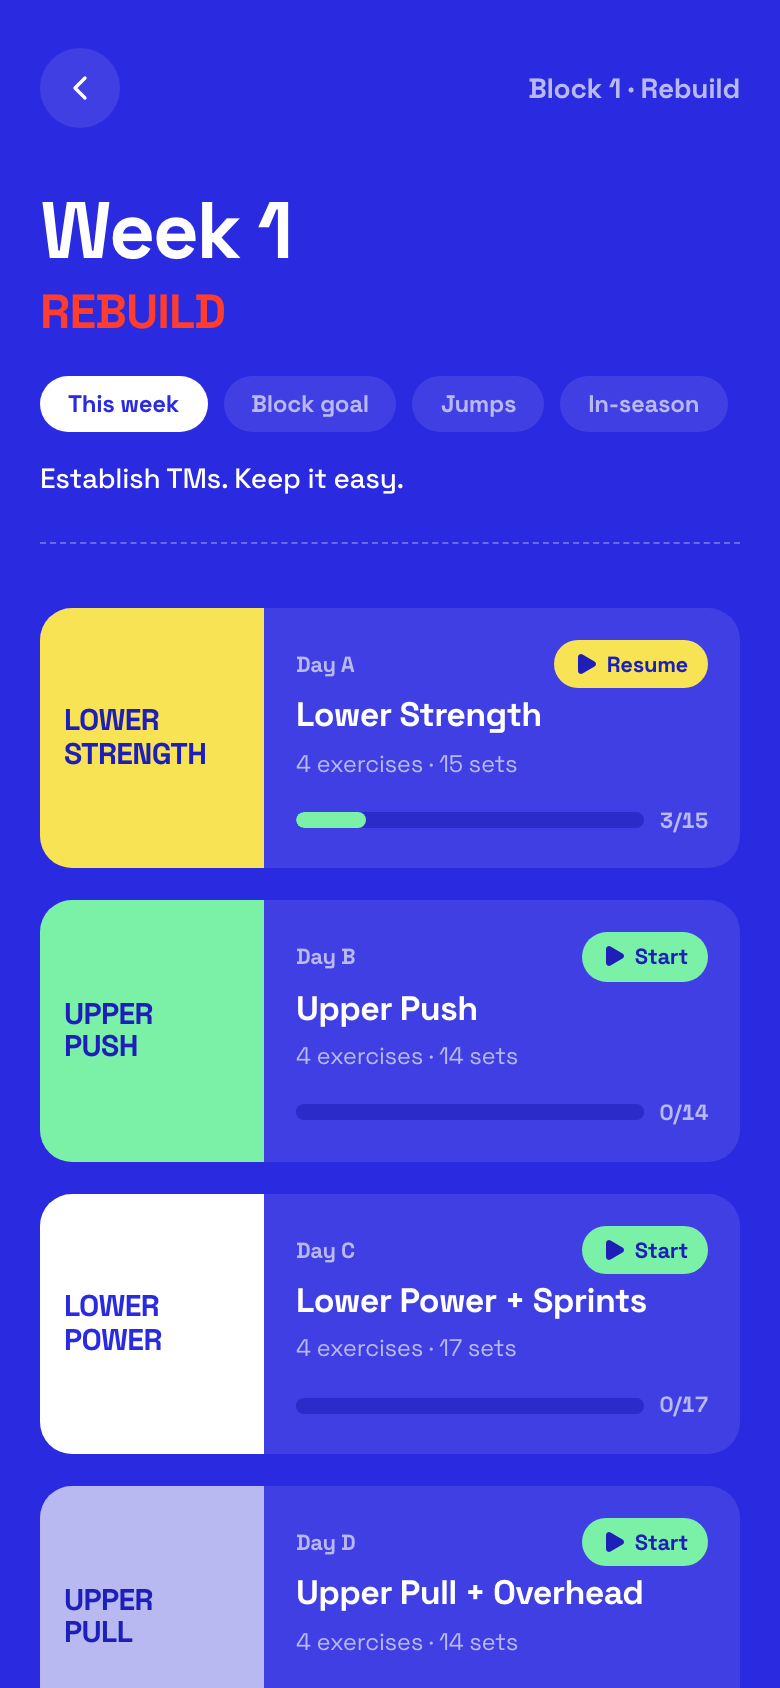
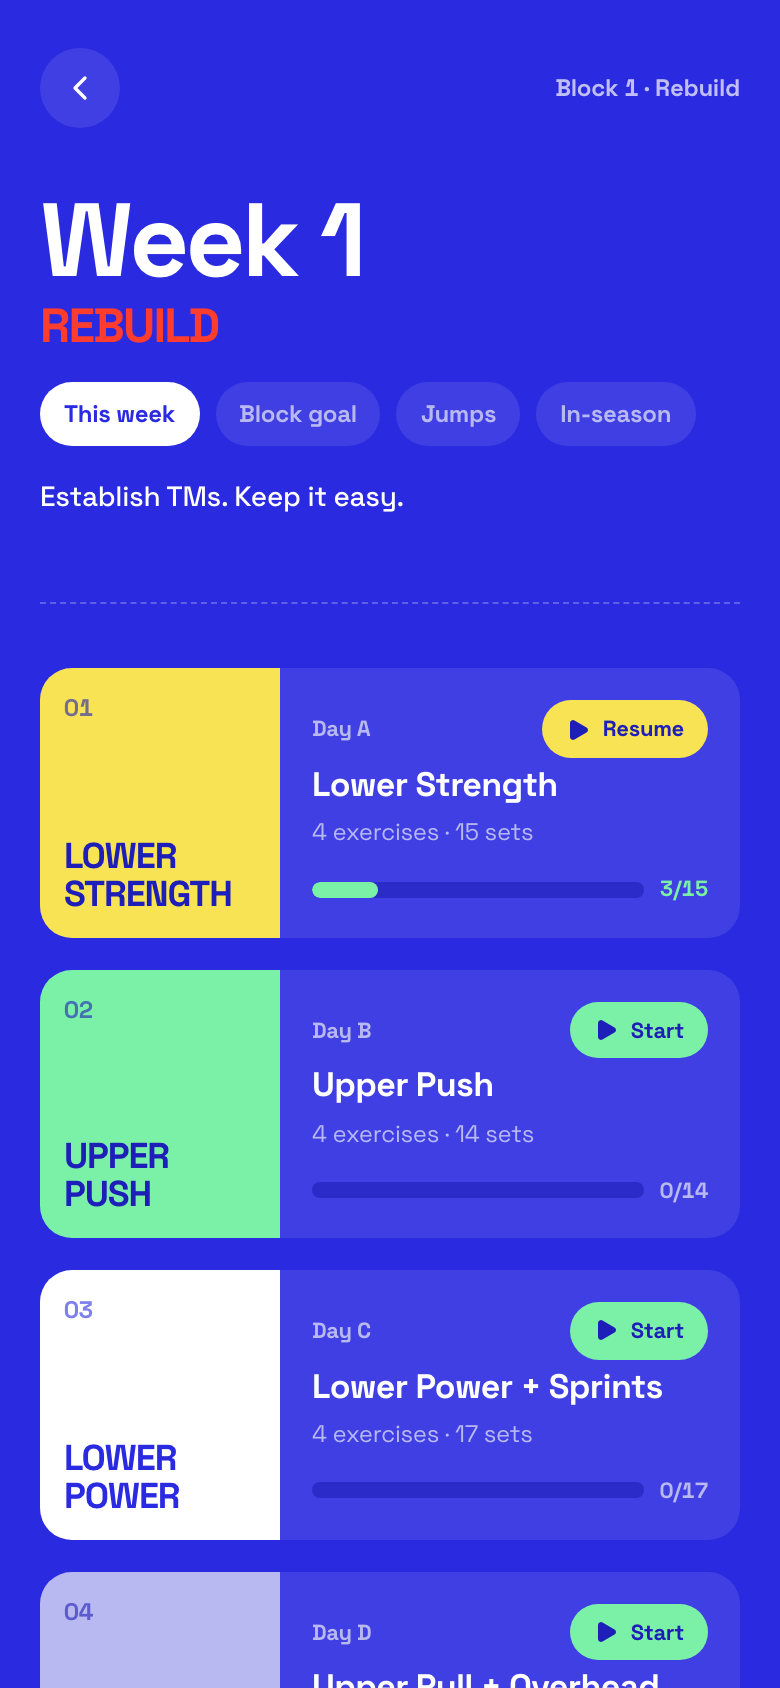
V2: week detail — won blind A/B, all criteria met
V2 week-detail (/week/1) visual refinement, single file touched: src/pages/WeekOverview.tsx. Changes vs pre shot (docs/gauntlet/shots/pre/v2-week-detail.png): (1) Poster day-cards now read as a designed set — panels widened to 7.5rem with a small tabular index numeral (01–04, opacity-60) top-left and a bottom-anchored word stack at 1.125rem/1.05 with -0.03em tracking.

diff --git a/src/pages/WeekOverview.tsx b/src/pages/WeekOverview.tsx
@@ -58,26 +58,26 @@ export default function WeekOverview() {
           >
             <ChevronLeft className="w-5 h-5" />
           </button>
-          <span className="text-sm font-bold text-mist">
+          <span className="text-xs font-bold text-white/70 tabular-nums">
             Block {week.block.charAt(0)} · {blockName}
           </span>
         </div>
 
         {/* Title */}
         <header className="mb-8">
-          <h1 className="text-[2.5rem] leading-none font-bold tracking-[-0.03em] mb-1">
+          <h1 className="text-[3.25rem] leading-[0.95] font-bold tracking-[-0.035em] mb-1.5">
             Week {week.weekNumber}
           </h1>
           <h2
             className={cn(
-              'text-2xl font-bold tracking-[-0.02em] uppercase',
+              'text-2xl leading-none font-bold tracking-[-0.04em] uppercase',
               BLOCK_TEXT_COLOR[blockName]
             )}
           >
             {blockName}
           </h2>
           <WeekInfoTabs week={week} />
-          <div className="border-t border-dashed border-white/30 mt-5" />
+          <div className="border-t border-dashed border-white/25 mt-6" />
         </header>
 
         {/* Day cards */}
@@ -86,10 +86,6 @@ export default function WeekOverview() {
             <DayCard key={day.id} day={day} index={index} completedSets={completedSets} />
           ))}
         </div>
-        <p className="text-center text-[0.6875rem] font-medium text-mist mt-5">
-          Tap a session to start the workout.
-        </p>
-
       </main>
     </div>
   );
@@ -118,7 +114,7 @@ const WeekInfoTabs: React.FC<{ week: (typeof TRAINING_PLAN)[number] }> = ({ week
               setActive(tab.id);
             }}
             className={cn(
-              'px-3.5 py-1.5 rounded-full text-xs font-bold transition-colors',
+              'px-3 py-2 rounded-full text-xs font-bold transition-colors',
               active === tab.id ? 'bg-white text-court' : 'bg-white/10 text-mist hover:bg-white/20'
             )}
           >
@@ -130,7 +126,7 @@ const WeekInfoTabs: React.FC<{ week: (typeof TRAINING_PLAN)[number] }> = ({ week
       <AnimatePresence mode="wait">
         <motion.div
           key={active}
-          className="mt-3 text-sm leading-relaxed"
+          className="mt-3.5 min-h-[2.5rem] text-sm leading-relaxed"
           initial={{ opacity: 0, y: 4 }}
           animate={{ opacity: 1, y: 0 }}
           exit={{ opacity: 0, y: -4 }}
@@ -185,18 +181,23 @@ const DayCard: React.FC<{ day: WorkoutDay; index: number; completedSets: Progres
       {/* Poster panel */}
       <div
         className={cn(
-          'w-28 flex-shrink-0 px-3 py-4 flex flex-col justify-center',
+          'w-[7.5rem] flex-shrink-0 px-3 py-3 flex flex-col justify-between gap-2',
           POSTERS[index % POSTERS.length]
         )}
       >
-        {words.map((word) => (
-          <span
-            key={word}
-            className="block text-[0.9375rem] font-bold uppercase leading-[1.1] tracking-[-0.02em]"
-          >
-            {word}
-          </span>
-        ))}
+        <span className="text-xs font-bold tabular-nums opacity-60">
+          {String(index + 1).padStart(2, '0')}
+        </span>
+        <div>
+          {words.map((word) => (
+            <span
+              key={word}
+              className="block text-[1.125rem] font-bold uppercase leading-[1.05] tracking-[-0.03em]"
+            >
+              {word}
+            </span>
+          ))}
+        </div>
       </div>
 
       {/* Content */}
@@ -210,7 +211,7 @@ const DayCard: React.FC<{ day: WorkoutDay; index: number; completedSets: Progres
           ) : (
             <span
               className={cn(
-                'flex items-center gap-1 text-[0.6875rem] font-bold px-2.5 py-1 rounded-full flex-shrink-0',
+                'flex items-center gap-1.5 text-[0.6875rem] font-bold px-3 py-1.5 rounded-full flex-shrink-0',
                 started ? 'bg-zest text-court-deep' : 'bg-mint text-court-deep'
               )}
             >
@@ -232,7 +233,12 @@ const DayCard: React.FC<{ day: WorkoutDay; index: number; completedSets: Progres
               style={{ width: `${progress.percentage}%` }}
             />
           </div>
-          <span className="text-[0.6875rem] font-bold text-mist tabular-nums">
+          <span
+            className={cn(
+              'text-[0.6875rem] font-bold tabular-nums',
+              progress.completed > 0 ? 'text-mint' : 'text-mist'
+            )}
+          >
             {progress.completed}/{progress.total}
           </span>
         </div>
